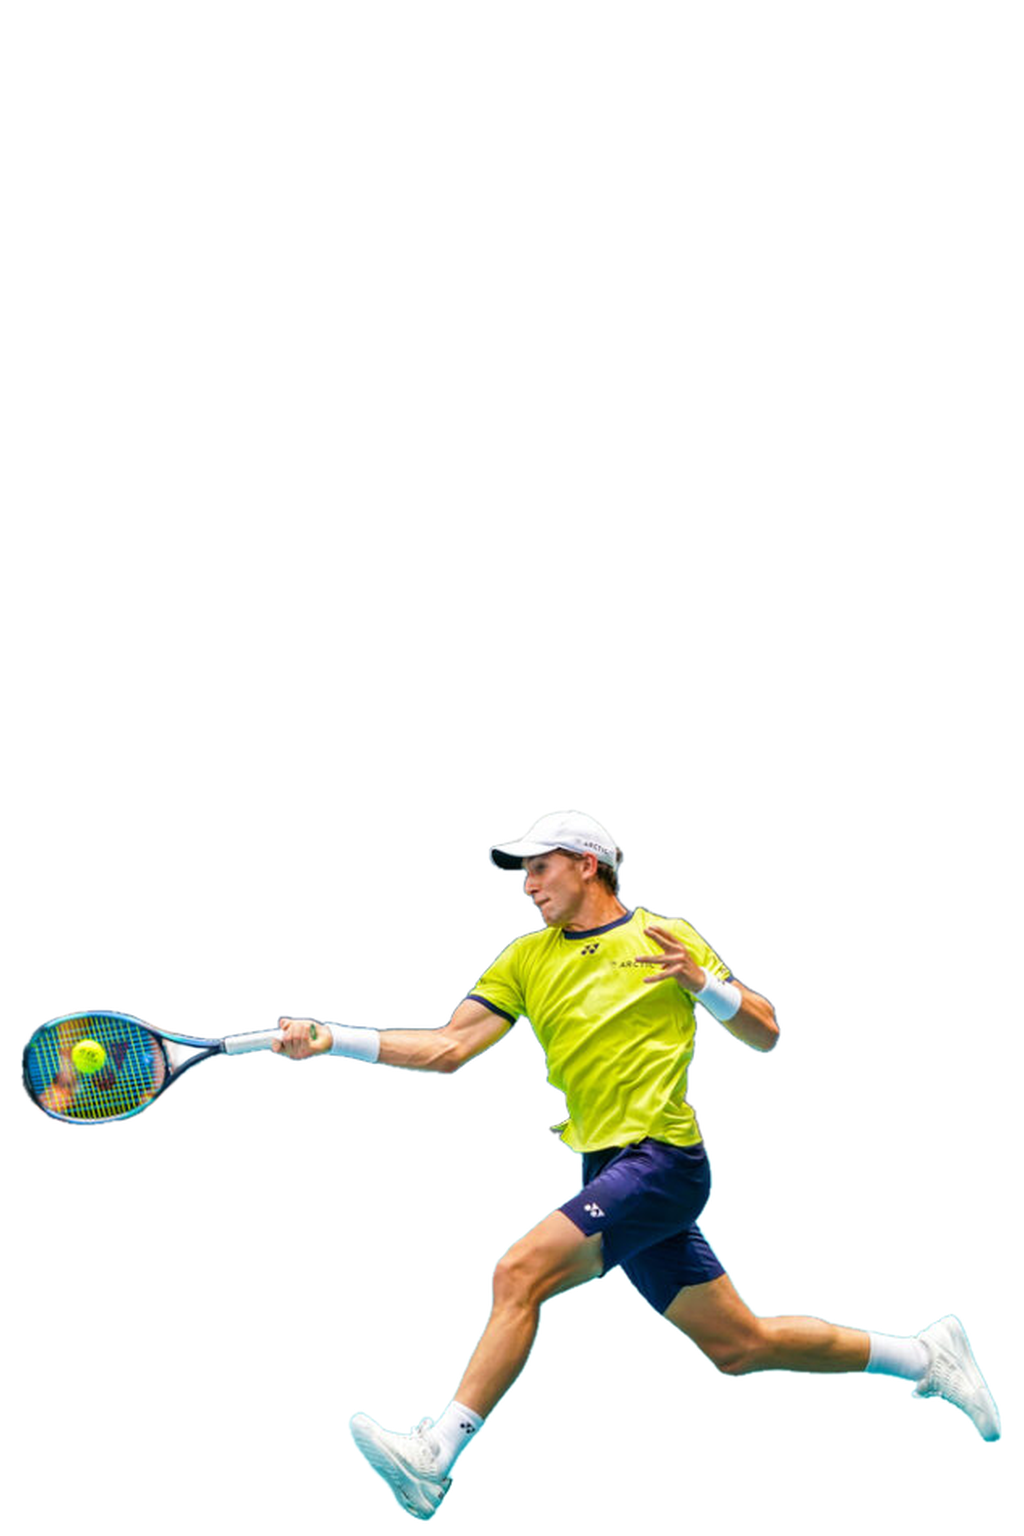
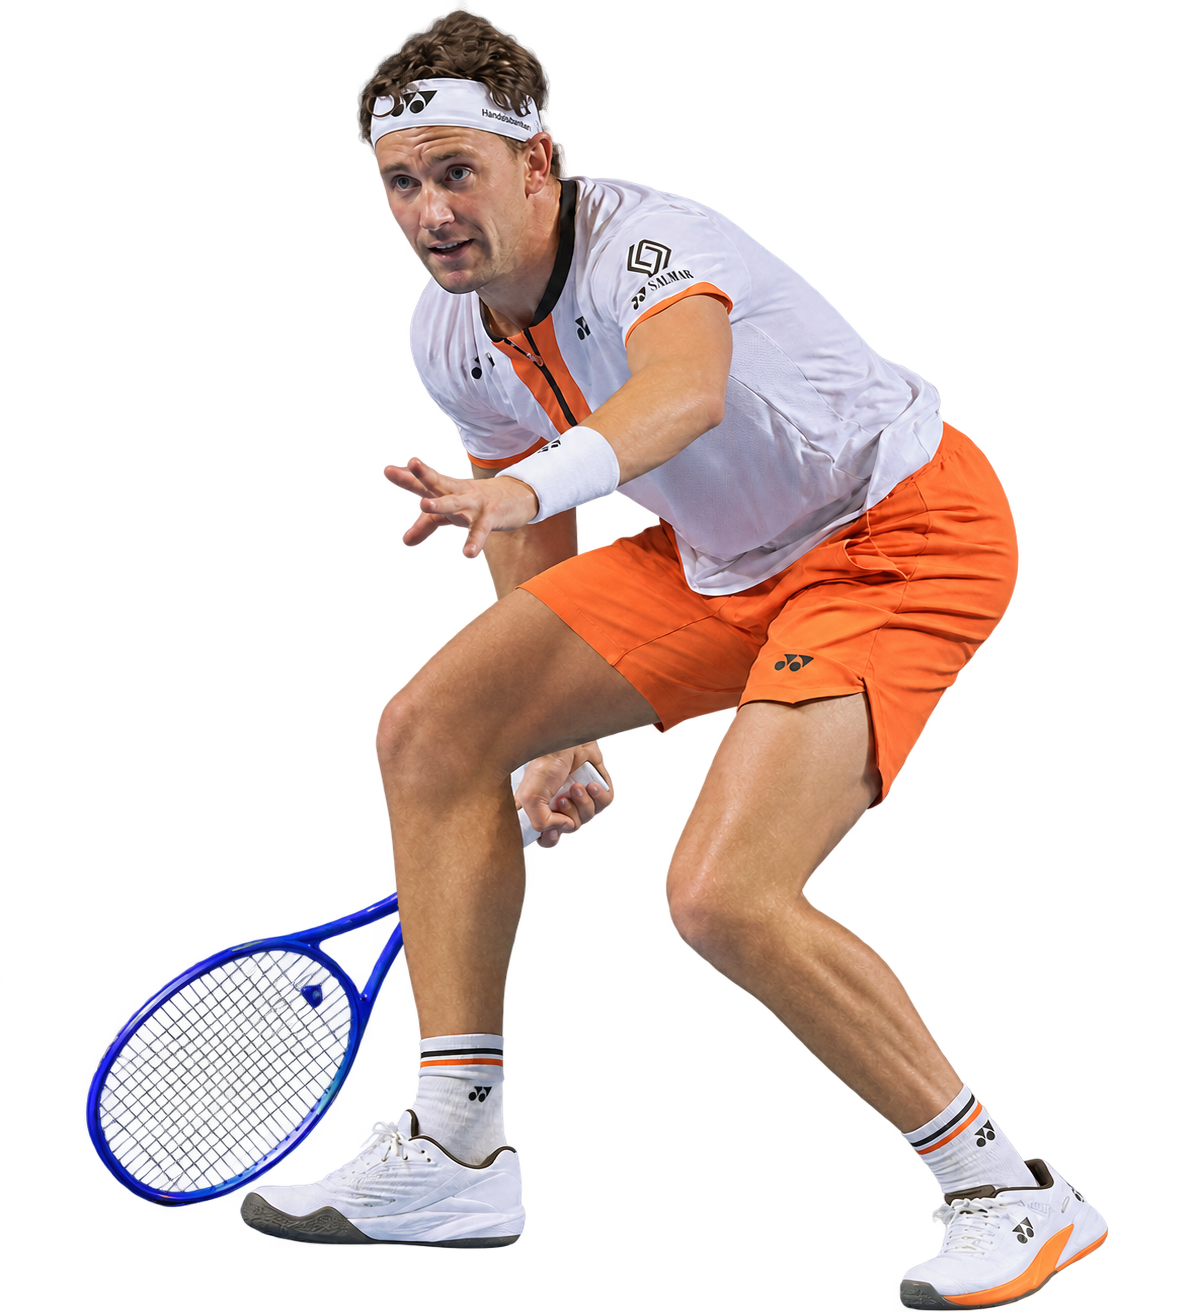
Replace Casper Ruud portrait with sharper real photo cutout

diff --git a/app/MatchDashboard.tsx b/app/MatchDashboard.tsx
@@ -441,7 +441,6 @@ const PLAYER_PHOTO_HOME_SIDE:Record<string,"left"|"right">={
 const PLAYER_PORTRAIT_SCALE:Record<string,"108"|"109"|"110"|"1143"|"115"|"117"|"118"|"120"|"121"|"127"|"130"|"133"|"1333"|"140"|"140plain"|"143"|"145"|"150"|"157"|"160"|"164"|"166"|"169"|"176"|"177"|"180"|"182"|"183"|"186"|"192"|"200"|"220"|"224"|"240"|"242">={
   "Luciano Darderi":"160",
   "Daniel Merida Aguilar":"110",
-  "Casper Ruud":"224",
   "Tomas Machac":"1333",
   "Alejandro Davidovich Fokina":"1143",
   "Quentin Halys":"1143",
@@ -616,7 +615,7 @@ function PlayerPortrait({id,name,side}:{id:number|null;name:string;side:"left"|"
   const homeSide=portraitValue(PLAYER_PHOTO_HOME_SIDE,name);
   const shouldMirror=homeSide!=null&&homeSide!==side;
   const sources=[
-    ...(top20Slug?[`/players/cutouts/top20/${top20Slug}.png${top20Slug==="rafael-jodar"?"?v=action-oct25":top20Slug==="casper-ruud"?"?v=real-photo-nov2":""}`]:[]),
+    ...(top20Slug?[`/players/cutouts/top20/${top20Slug}.png${top20Slug==="rafael-jodar"?"?v=action-oct25":top20Slug==="casper-ruud"?"?v=basel-hd-nov6":""}`]:[]),
     ...(top40Slug?[`/players/cutouts/top40/${top40Slug}.png${top40Slug==="francisco-cerundolo"?"?v=real-photo-oct19":top40Slug==="quentin-halys"?"?v=wimbledon-real-nov5":["alejandro-davidovich-fokina","stefanos-tsitsipas"].includes(top40Slug)?"?v=edge-clean-nov3b":["luciano-darderi","tomas-machac","matteo-berrettini","andrey-rublev"].includes(top40Slug)?"?v=real-photo-nov2":""}`]:[]),
     ...(top60Slug?[`/players/cutouts/top60/${top60Slug}.png${top60Slug==="daniel-merida-aguilar"?"?v=real-photo-nov2b":""}`]:[]),
     ...(top80Slug?[`/players/cutouts/top80/${top80Slug}.png?v=griekspoor2`]:[]),
@@ -805,7 +804,7 @@ function ModelDetails({language}:{language:Language}){
       </div>
 
       <section className="model-disclaimer"><span>UM</span><p><b>{m.guarantee}</b>{m.disclaimer}</p></section>
-      <details className="photo-credits"><summary>Photo credits</summary><p>Player portraits are edited cutouts of source photographs. <a href="https://commons.wikimedia.org/wiki/File:Mattia_Bellucci_(2024_DC_Open)_02.jpg" target="_blank" rel="noreferrer">Mattia Bellucci</a> and <a href="https://commons.wikimedia.org/wiki/File:Timofey_Skatov_(2026_US_Open)_01.jpg" target="_blank" rel="noreferrer">Timofey Skatov</a>: Hameltion, <a href="https://creativecommons.org/licenses/by-sa/4.0/" target="_blank" rel="noreferrer">CC BY-SA 4.0</a>. <a href="https://commons.wikimedia.org/wiki/File:Bernard_Tomic_2,_Wimbledon_2013_-_Diliff.jpg" target="_blank" rel="noreferrer">Bernard Tomic</a>: David Iliff, <a href="https://creativecommons.org/licenses/by-sa/3.0/" target="_blank" rel="noreferrer">CC BY-SA 3.0</a>. <a href="https://commons.wikimedia.org/wiki/File:Marcos_Giron_((SA)_at_2014_USOPEN.jpg" target="_blank" rel="noreferrer">Marcos Giron</a>: Emmett Hume, CC BY-SA 4.0. <a href="https://www.tennismagazin.de/news/max-schoenhaus-im-portraet-der-zocker-aus-dem-sauerland/" target="_blank" rel="noreferrer">Max Schoenhaus</a>: Imago / Hasenkopf. Backgrounds were removed and portraits cropped or resized.</p></details>
+      <details className="photo-credits"><summary>Photo credits</summary><p>Player portraits are edited cutouts of source photographs. <a href="https://commons.wikimedia.org/wiki/File:Casper_Ruud,_ATP_Basel_2025.jpg" target="_blank" rel="noreferrer">Casper Ruud</a>: Skyscraper2010, <a href="https://creativecommons.org/licenses/by-sa/4.0/" target="_blank" rel="noreferrer">CC BY-SA 4.0</a>. <a href="https://commons.wikimedia.org/wiki/File:Mattia_Bellucci_(2024_DC_Open)_02.jpg" target="_blank" rel="noreferrer">Mattia Bellucci</a> and <a href="https://commons.wikimedia.org/wiki/File:Timofey_Skatov_(2026_US_Open)_01.jpg" target="_blank" rel="noreferrer">Timofey Skatov</a>: Hameltion, CC BY-SA 4.0. <a href="https://commons.wikimedia.org/wiki/File:Bernard_Tomic_2,_Wimbledon_2013_-_Diliff.jpg" target="_blank" rel="noreferrer">Bernard Tomic</a>: David Iliff, <a href="https://creativecommons.org/licenses/by-sa/3.0/" target="_blank" rel="noreferrer">CC BY-SA 3.0</a>. <a href="https://commons.wikimedia.org/wiki/File:Marcos_Giron_((SA)_at_2014_USOPEN.jpg" target="_blank" rel="noreferrer">Marcos Giron</a>: Emmett Hume, CC BY-SA 4.0. <a href="https://www.tennismagazin.de/news/max-schoenhaus-im-portraet-der-zocker-aus-dem-sauerland/" target="_blank" rel="noreferrer">Max Schoenhaus</a>: Imago / Hasenkopf. Backgrounds were removed and portraits cropped or resized.</p></details>
     </div>
   </section>;
 }

diff --git a/scripts/extract_real_photo_cutouts.py b/scripts/extract_real_photo_cutouts.py
@@ -23,7 +23,7 @@ PHOTOS = {
     # a manually reviewed cutout; automatic extraction fills the racket with grass.
     "luciano-darderi": ("top40_references/luciano-darderi.jpg", "top40"),
     "daniel-merida-aguilar": ("top60_references/daniel-merida-eurosport2026.jpg", "top60"),
-    "casper-ruud": ("top20_references/casper-ruud.jpg", "top20"),
+    "casper-ruud": ("top20_references/casper-ruud-basel-2025.jpg", "top20"),
     "tomas-machac": ("top40_references/tomas-machac-alternate.jpg", "top40"),
     "alejandro-davidovich-fokina": ("top40_references/alejandro-davidovich-fokina.jpg", "top40"),
     "matteo-berrettini": ("top40_references/matteo-berrettini.jpg", "top40"),

diff --git a/public/players/PHOTO_CREDITS.md b/public/players/PHOTO_CREDITS.md
@@ -28,7 +28,7 @@ These nine portraits were rebuilt using alpha extraction from the **original pho
 
 | Portrait | Source | Credit / terms |
 | --- | --- | --- |
-| `cutouts/top20/casper-ruud.png` | Archived real match photo `assets/player_sources/top20_references/casper-ruud.jpg` | Source attribution not yet verified. |
+| `cutouts/top20/casper-ruud.png` | [Casper Ruud, ATP Basel 2025](https://commons.wikimedia.org/wiki/File:Casper_Ruud,_ATP_Basel_2025.jpg), local source `assets/player_sources/top20_references/casper-ruud-basel-2025.jpg` | Skyscraper2010, [CC BY-SA 4.0](https://creativecommons.org/licenses/by-sa/4.0/). Background removed and portrait cropped; cutout edited from the authentic photo. |
 | `cutouts/top40/luciano-darderi.png` | Archived real match photo `assets/player_sources/top40_references/luciano-darderi.jpg` | Source attribution not yet verified. |
 | `cutouts/top40/alejandro-davidovich-fokina.png` | Archived real match photo `assets/player_sources/top40_references/alejandro-davidovich-fokina.jpg` | Source attribution not yet verified. |
 | `cutouts/top40/quentin-halys.png` | Archived real match photo `assets/player_sources/top40_references/quentin-halys.jpg` | Source attribution not yet verified. |
